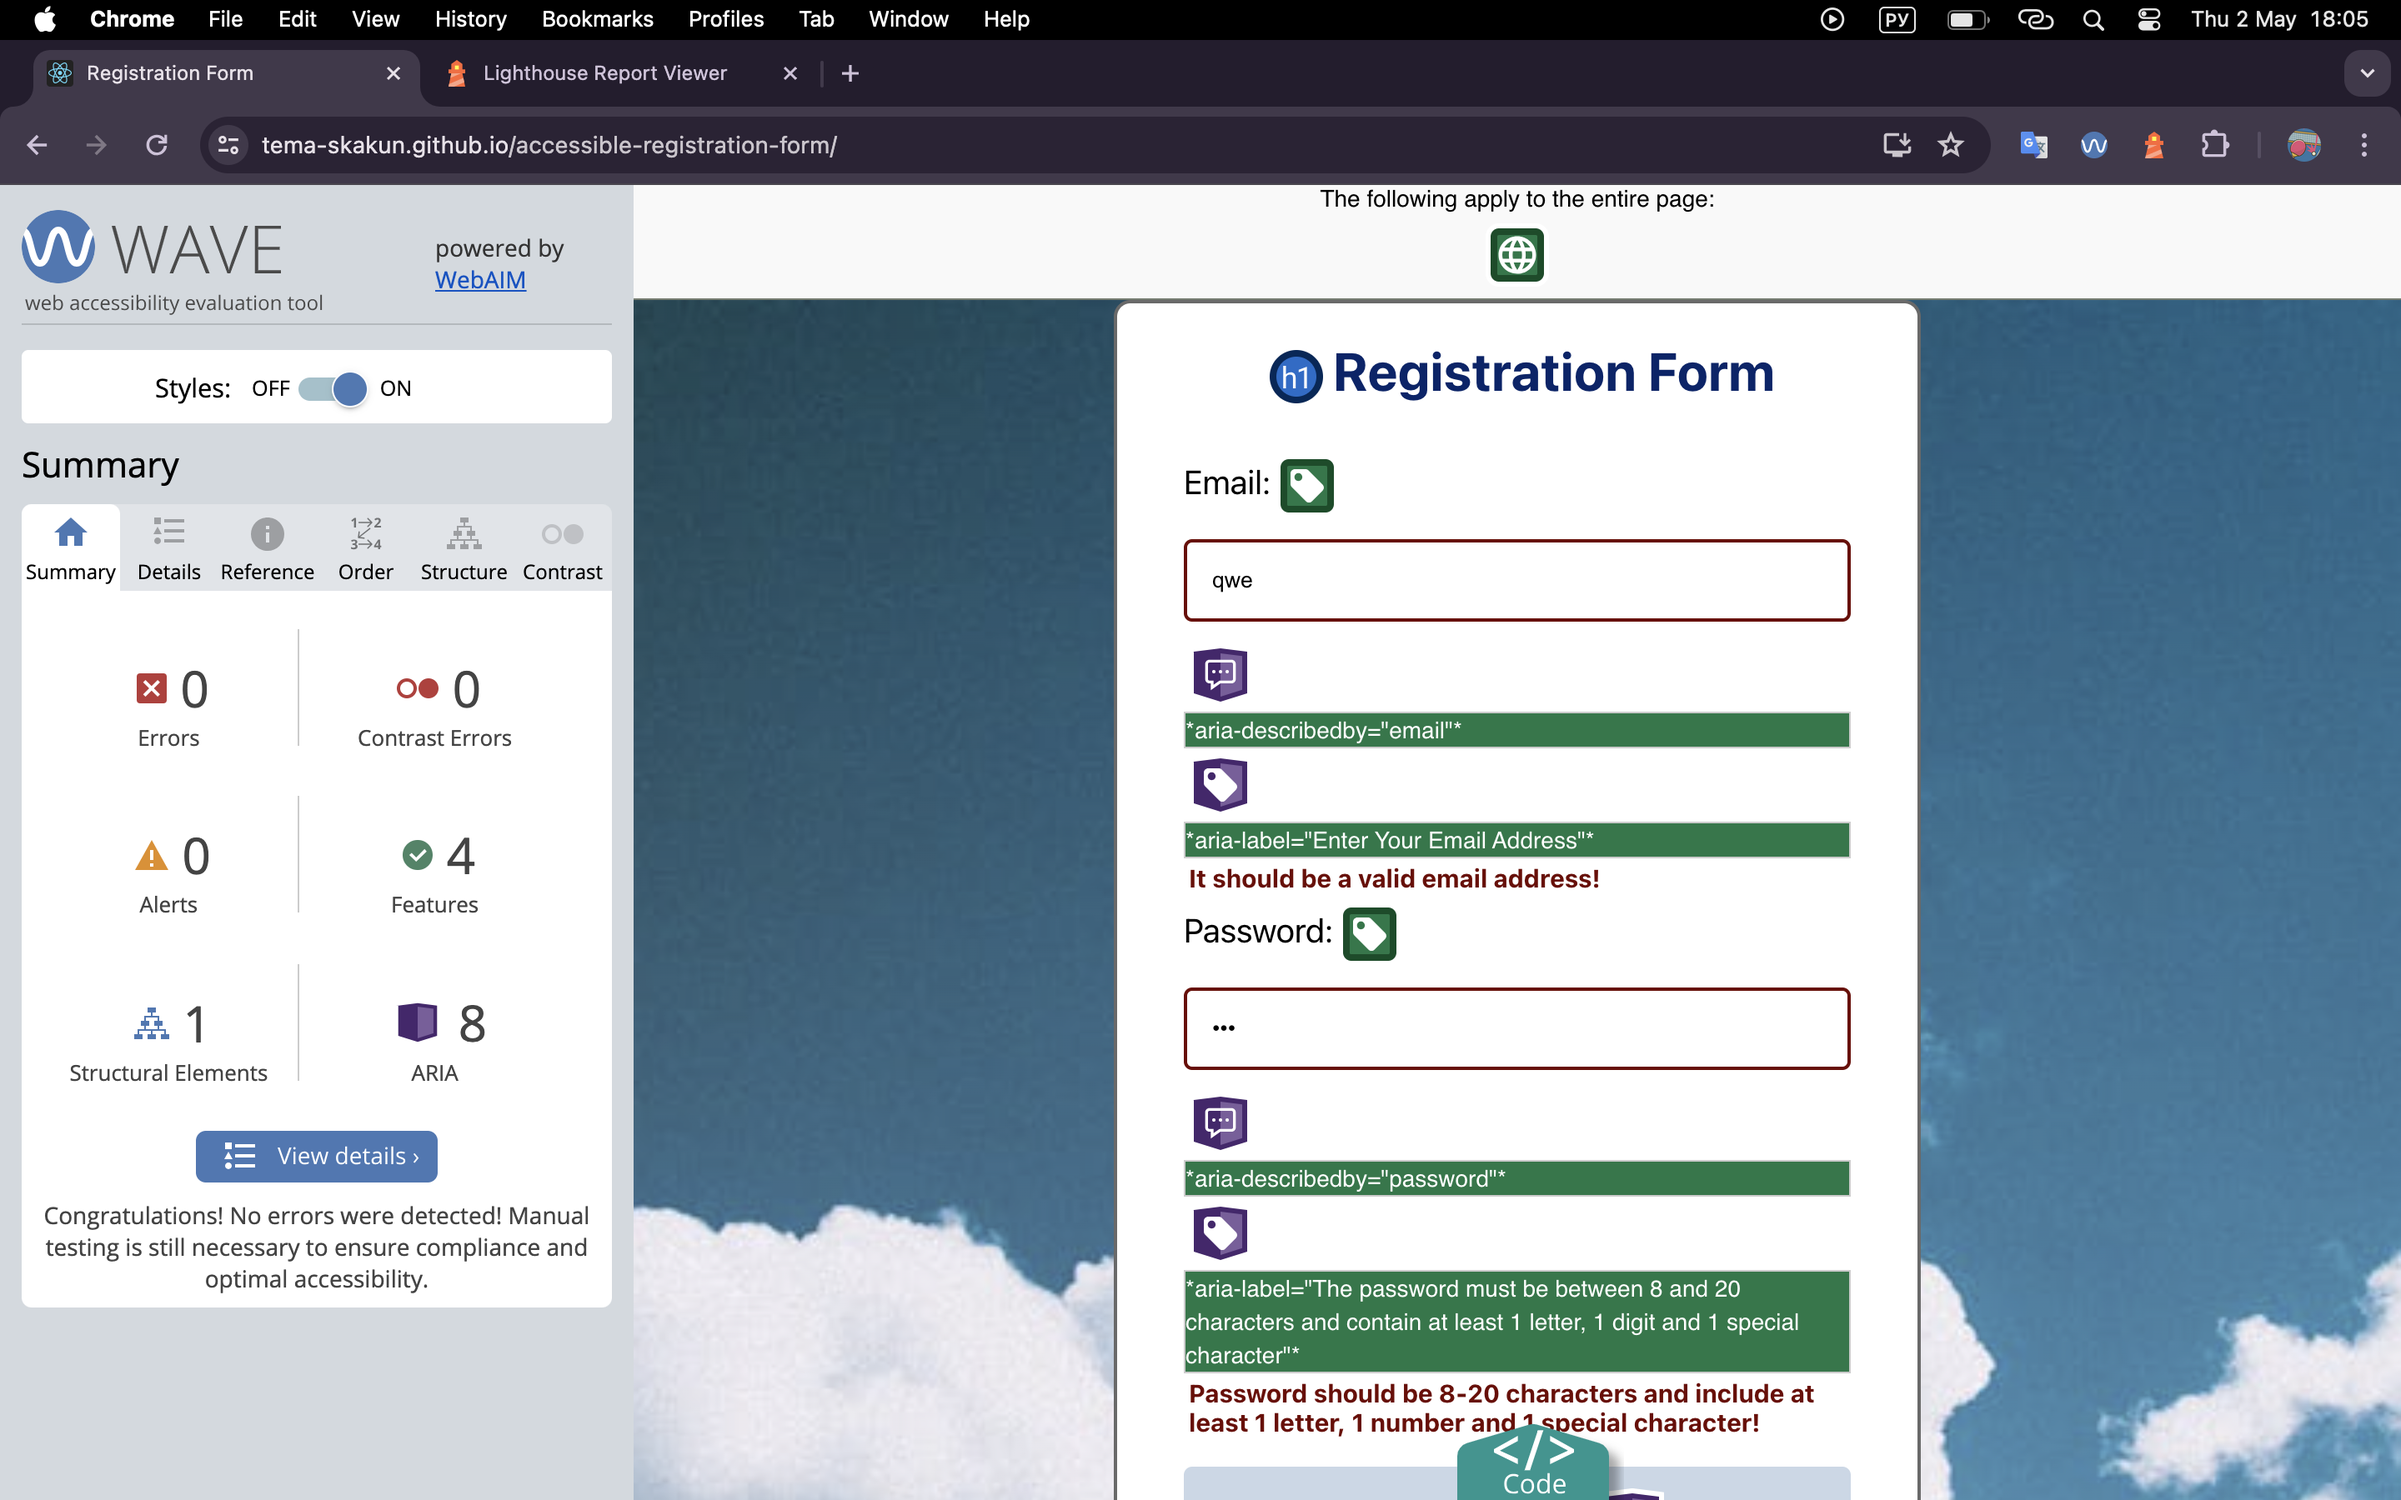
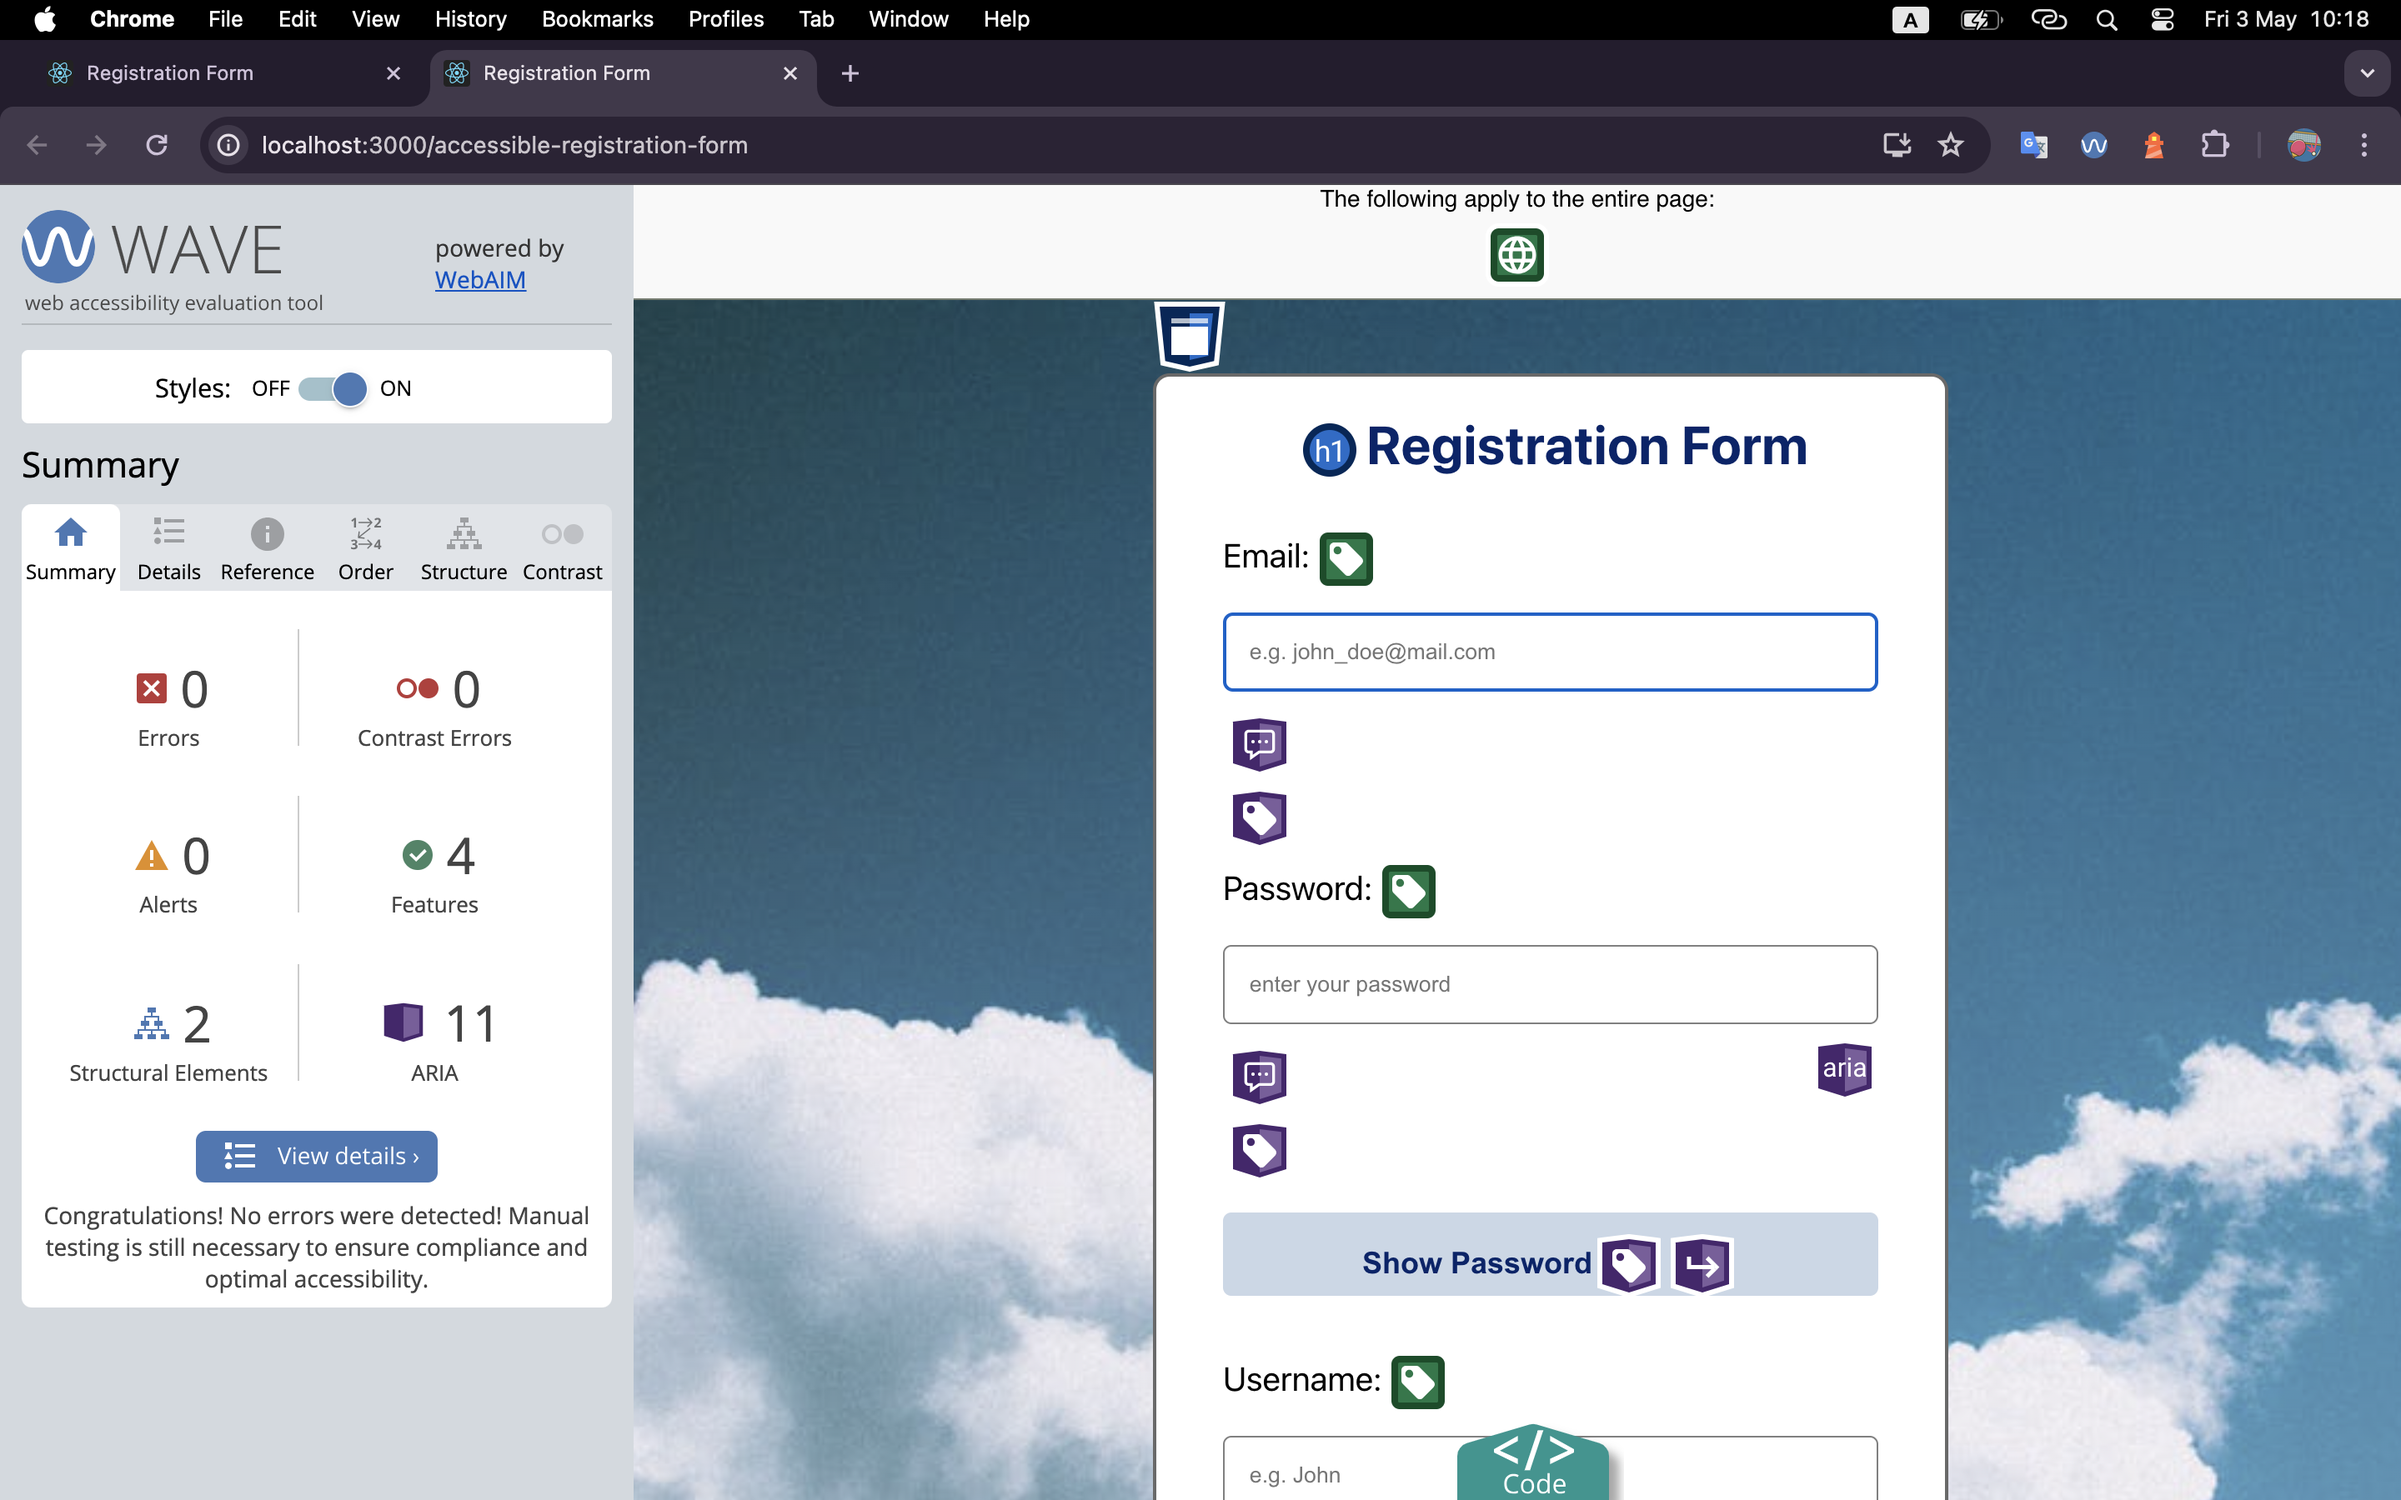
fix: fixes issues found by axe devtools

diff --git a/src/App.js b/src/App.js
@@ -12,7 +12,6 @@ const App = () => {
   const inputs = [
     {
       id: 1,
-      // tabIndex: "1",
       name: "email",
       label: "Email:",
       type: "email",
@@ -24,7 +23,6 @@ const App = () => {
     },
     {
       id: 2,
-      // tabIndex: "2",
       name: "password",
       label: "Password:",
       type: "password",
@@ -37,7 +35,6 @@ const App = () => {
     },
     {
       id: 3,
-      // tabIndex: "4",
       name: "username",
       label: "Username:",
       type: "text",
@@ -60,27 +57,29 @@ const App = () => {
   };
 
   return (
-    <div className="app">
-      <form onSubmit={handleSubmit} autoComplete="on">
-        <h1>Registration Form</h1>
-        {inputs.map((input) => (
-          <FormInput
-            key={input.id}
-            {...input}
-            value={values[input.name]}
-            onChange={onChange}
-          />
-        ))}
-        <button
-          tabIndex="0"// for Safari
-          name="register"
-          id="register"
-          type="submit"
-          aria-label="Register"
-        >
-          Register
-        </button>
-      </form>
+    <div className="app" role="form">
+      <main role="main">
+        <form onSubmit={handleSubmit} autoComplete="on">
+          <h1>Registration Form</h1>
+          {inputs.map((input) => (
+            <FormInput
+              key={input.id}
+              {...input}
+              value={values[input.name]}
+              onChange={onChange}
+            />
+          ))}
+          <button
+            tabIndex="0"// for Safari
+            name="register"
+            id="register"
+            type="submit"
+            aria-label="Register"
+          >
+            Register
+          </button>
+        </form>
+      </main>
     </div>
   );
 };

diff --git a/README.md b/README.md
@@ -24,17 +24,30 @@ Design and develop an accessible registration form with fields for email, passwo
 plus a "Show Password" toggle button, ensuring keyboard navigability and screen reader compatibility.
 
 ## Tools
- ### Screen Readers
+I used three browsers, three screen readers and three accessibility testing tools.
+
+### Browsers
+    - Mozila Firefox [Version 125.0.3 (64-bit)]
+    - Google Chrome [Version 124.0.6367.119 (Official Build) (x86_64)]
+    - Safari [Version 17.4.1 (19618.1.15.11.14)]
+
+### Screen Readers
 ![VoiceOver](screenshots/VoiceOver.png)
-VoiceOver (Mac OS) - works successfully.
+VoiceOver (macOS) - works successfully.
 
     - ___ (Windows OS)
     - ___ (Linux OS)
  ### Accessibility Testing Tools
     - WAVE Web Accessibility Evaluation Tools (+)
     - Lighthouse (+)
+    - axe DevTools - Web Accessibility Testing (+)
 
 ## Tools test results
+
+Я столкнулся с проблемой: При перемещении по странице с помощью кнопки табуляции в браузере Safari фокус не переходит на кнопки.
+
+Решение - я добавил на кнопки tabindex="0".
+
 ![WAVE report](screenshots/wave.png)
 There are no errors, issues and alerts in the report from WAVE.
 
